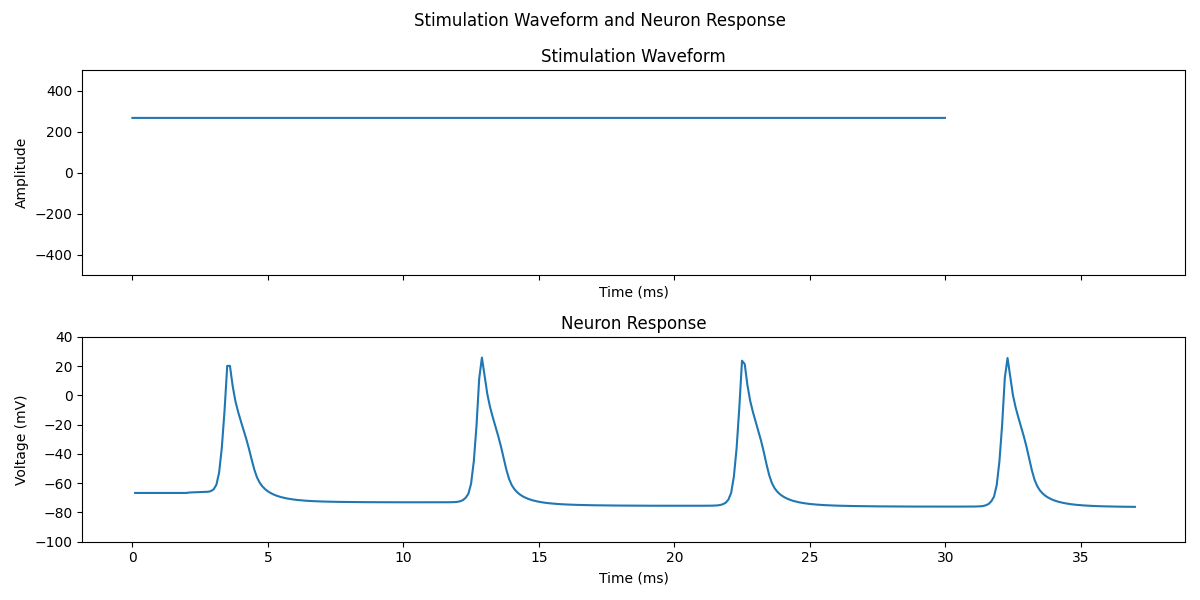
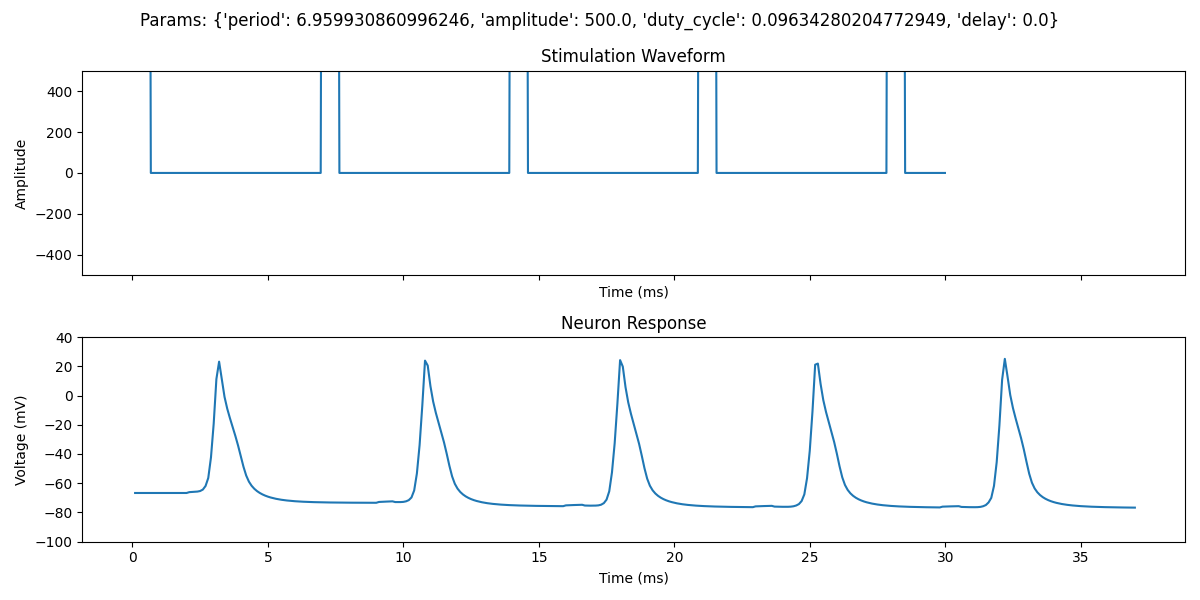
feat: 10000 step run done with square waveform and fixed position. Fixed some bugs to do with time units

diff --git a/environment.py b/environment.py
@@ -150,26 +150,41 @@ class NEURONEnv(Env):
         terminated = self.actions_taken >= self.max_actions
         truncated = False  # You can implement truncation logic if needed
         t1 = time.time()
+        unnormalized_params = {
+            key: self.waveform.unnormalize_model_param(action[i], key)
+            for i, key in enumerate(self.waveform.param_bounds.keys())
+        }
         print(f"Step time: {t1 - t0}, Reward: {reward}")
         if reward > self.best_reward:
             self.best_reward = reward
-            self.plot_waveform_and_response(waveform, responses[0], times[0])
-
-        print(f"Action: {action}")
-
+            self.plot_waveform_and_response(
+                waveform, responses[0], times[0], unnormalized_params
+            )
+        if terminated:
+            self.plot_waveform_and_response(
+                waveform,
+                responses[0],
+                times[0],
+                unnormalized_params,
+                plot_name="terminated",
+            )
         return self.get_obs(), reward, terminated, truncated, {}
 
-    def plot_waveform_and_response(self, waveform, response, time_response):
+    def plot_waveform_and_response(
+        self, waveform, response, time_response, params, plot_name="best_response"
+    ):
         os.makedirs("plots", exist_ok=True)
         t_waveform = np.arange(len(waveform)) / self.sampling_rate * 1000  # ms
 
         fig, axs = plt.subplots(2, 1, figsize=(12, 6), sharex=True)
-        fig.suptitle("Stimulation Waveform and Neuron Response")
+        fig.suptitle(f"Params: {params}")
         axs[0].plot(t_waveform, waveform)
         axs[0].set_title("Stimulation Waveform")
         axs[0].set_xlabel("Time (ms)")
         axs[0].set_ylabel("Amplitude")
-        axs[0].set_ylim(-self.waveform.max_amplitude, self.waveform.max_amplitude)
+        axs[0].set_ylim(
+            -1.1 * self.waveform.max_amplitude, 1.1 * self.waveform.max_amplitude
+        )
 
         axs[1].plot(time_response, response)
         axs[1].set_title("Neuron Response")
@@ -178,7 +193,7 @@ class NEURONEnv(Env):
         axs[1].set_ylim(-100, 40)
 
         plt.tight_layout()
-        plt.savefig("plots/best_response.png")
+        plt.savefig(f"plots/{plot_name}.png")
         plt.close()
 
     def simulate_neuron_response(self, waveform, neuron_type):

diff --git a/waveforms/fourier_approx.py b/waveforms/fourier_approx.py
@@ -90,8 +90,9 @@ class FourierWaveform(Waveform):
         phase_1 = params["phase_1"]
         phase_2 = params["phase_2"]
 
+        t_s = t / 1000.0  # convert ms to seconds for Hz-based frequencies
         return (
             c0
-            + c1 * np.sin(2 * np.pi * f1 * t + phase_1)
-            + c2 * np.sin(2 * np.pi * f2 * t + phase_2)
+            + c1 * np.sin(2 * np.pi * f1 * t_s + phase_1)
+            + c2 * np.sin(2 * np.pi * f2 * t_s + phase_2)
         )

diff --git a/waveforms/full_sequence.py b/waveforms/full_sequence.py
@@ -1,3 +1,5 @@
+import numpy as np
+
 from waveforms.waveform import Waveform
 
 
@@ -20,7 +22,7 @@ class FullSequenceWaveform(Waveform):
         }
 
     def _is_active(self, t, params):
-        return True
+        return np.ones(len(t), dtype=bool)
 
     def _compute_value(self, pulse_t, params):
         return params["full_sequence"]

diff --git a/waveforms/waveform.py b/waveforms/waveform.py
@@ -9,13 +9,13 @@ class Waveform(ABC):
         self.max_amplitude = max_amplitude
 
     def generate_waveform(self, duration, sampling_rate, params=None):
-        duration = duration / 1000.0  # convert ms to seconds
+        duration_s = duration / 1000.0  # convert ms to seconds
+        t_points = self.get_t_points(duration_s, sampling_rate) * 1000.0  # convert to ms
         if params is None:
             params = {"delay": 0.0}
 
         p = self._resolve_params(params)
 
-        t_points = self.get_t_points(duration, sampling_rate)
         pulse_t = t_points - p["delay"]
 
         # Vectorized active mask

diff --git a/waveforms/square.py b/waveforms/square.py
@@ -28,7 +28,7 @@ class SquareWaveform(Waveform):
     def param_bounds(self):
         # TODO: change to actual bounds for these parameters
         return {
-            "period": (0.0, 100.0),  # milliseconds
+            "period": (0.1, 30.0),  # milliseconds
             "amplitude": (0.0, self.max_amplitude),  # mA
             "duty_cycle": (0.0, 1.0),  # fraction of period
             "delay": (0.0, 30.0),  # milliseconds
@@ -49,7 +49,6 @@ class SquareWaveform(Waveform):
         unnormalized_params = {
             key: self.unnormalize_model_param(params[key], key) for key in params
         }
-        print(f"Unnormalized params: {unnormalized_params}")
         return unnormalized_params
 
     def _is_active(self, t, params):

diff --git a/criterions/min_energy.py b/criterions/min_energy.py
@@ -3,7 +3,7 @@ from criterions.criterion import Criterion
 
 class MinEnergy(Criterion):
     def __init__(self):
-        self._lambda = 1e-5
+        self._lambda = 3e-5
 
     @property
     def requires_multiple_responses(self):

diff --git a/models/RecurrentPPO.py b/models/RecurrentPPO.py
@@ -34,7 +34,7 @@ class RecurrentPPOClass:
         )
         self.model.save("weights/recurrentppo_opt")
 
-    def eval(self, eps=1):
+    def eval(self, eps=10):
         avg_reward = evaluate_policy(self.model, self.env, n_eval_episodes=eps)
         print("Average Reward:", avg_reward)
         return avg_reward

diff --git a/waveforms/legendre3.py b/waveforms/legendre3.py
@@ -34,7 +34,7 @@ class Legendre3Waveform(Waveform):
             "c0": (-self.max_amplitude, self.max_amplitude),
             "c1": (-self.max_amplitude, self.max_amplitude),
             "c2": (-self.max_amplitude, self.max_amplitude),
-            "period": (0.001, 100.0),  # seconds
+            "period": (0.1, 100.0),  # milliseconds
             "duty_cycle": (0.0, 1.0),  # fraction of period
             "delay": (0.0, 100.0),  # milliseconds
         }